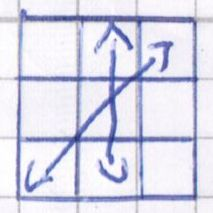
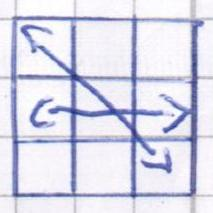
Added N-Perm-Algorithm

diff --git a/src/app/services/algorithmservice.service.ts b/src/app/services/algorithmservice.service.ts
@@ -26,9 +26,11 @@ export class AlgorithmserviceService {
     const rpermRight = this.createAlgorithm('rperm_right', 'R-Perm Right', 'R\' U2 R U2 R\' F R U R\' U\' R\' F\' R2 U\'');
     const upermLeft = this.createAlgorithm('uperm_left', 'U-Perm Left');
     const upermRight = this.createAlgorithm('uperm_right', 'U-Perm Right');
-    const nperm1 = this.createAlgorithm('nperm1', 'N-Perm 1');
-    const nperm2 = this.createAlgorithm('nperm2', 'N-Perm 2');
-    const zperm = this.createAlgorithm('zperm', 'Z-Perm');
+    const nperm1 = this.createAlgorithm('nperm1', 'N-Perm 1', 'R\' U R U\' R\' F\' U\' F R U R\' F R\' F\' R U\' R');
+    const nperm2 = this.createAlgorithm('nperm2', 'N-Perm 2', 'R U R\' U R U R\' F\' R U R\' U\' R\' F R2 U\' R\' U2 R U\' R\'');
+    // const zperm = this.createAlgorithm('zperm', 'Z-Perm', 'R\' U\' R\' F R F\' U R F\' U\' L\' U L F');
+    // const zperm = this.createAlgorithm('zperm', 'Z-Perm', 'R\' U\' R2 U R U R\' U\' R U R U\' R U\' R\'');
+    const zperm = this.createAlgorithm('zperm', 'Z-Perm', 'U R\' U\' R U\' R U R U\' R\' U R U R2 U\' R\' U');
     this.algorithms = [tperm, yperm, jpermRight, jpermLeft, eperm, zperm, vperm, aperm1, aperm2, fperm, gperm1, gperm2, gperm3, gperm4, hperm, rpermLeft, rpermRight, upermLeft, upermRight, nperm1, nperm2];
   }
 
